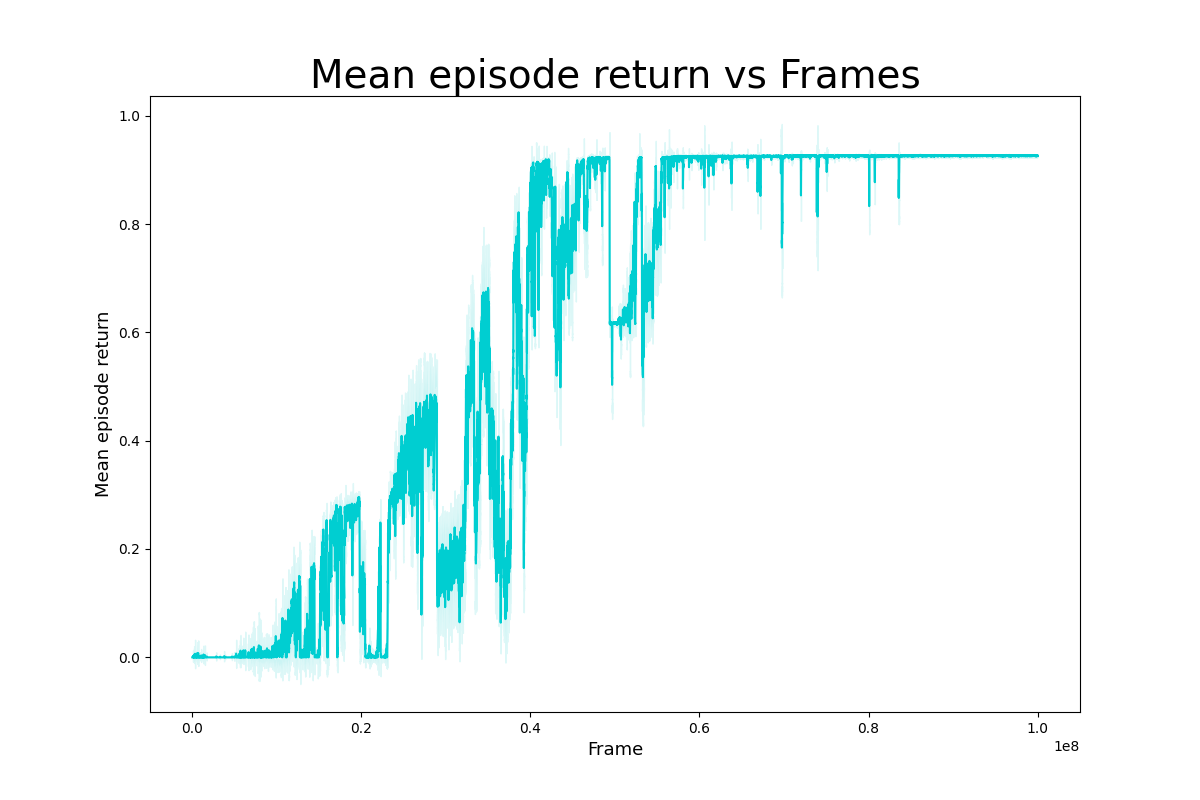
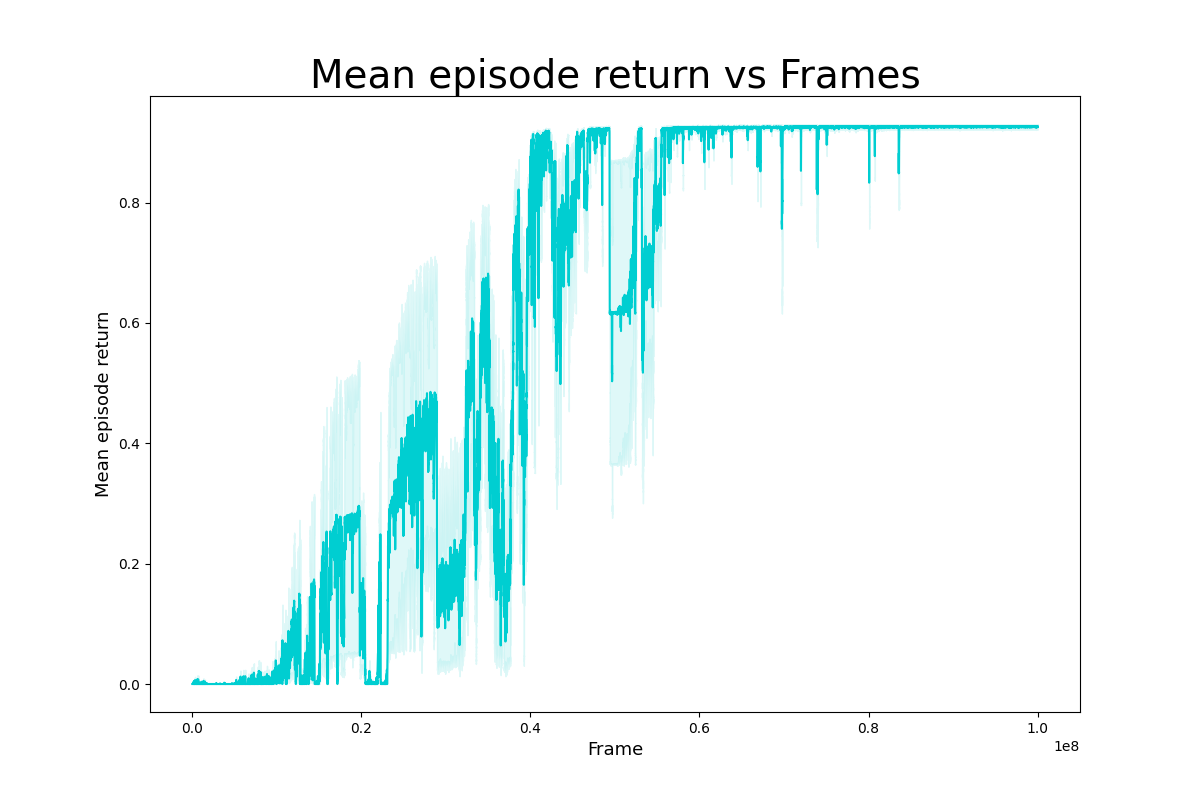
plot fixed and new results

diff --git a/plot_util.py b/plot_util.py
@@ -12,11 +12,14 @@ env_dict = {
     'OM': 'ObstructedMaze-1Dl'
 }
 # set environment to plot, for now KC/OM
-env = 'OM'
+env = 'KC'
 # set directory to save plots
 plots_dir = 'plot_results/'
 # window for rolling mean
 window = 5
+
+# Whether to plot the generator_reward, intrinsic reward and t* as well
+plot_extras = True
 
 # prepare directory for plots
 if not os.path.exists(plots_dir):
@@ -25,26 +28,35 @@ if not os.path.exists(plots_dir):
 
 frames = []
 mean_episode_return = []
+current_target = []
+generator_rewards = []
+mean_intrinsic_reward = []
+
 print('Collecting results...')
 for filename in os.listdir(results_dir):
     if filename.startswith(env):
         print(os.path.join(results_dir, filename))
         path = os.path.join(results_dir, filename)
         data = pd.read_csv(os.path.join(path, 'logs.csv'))
+        # Appends
         frames.append(data['frames'])
         mean_episode_return.append((data['mean_episode_return']))
+        current_target.append((data['generator_current_target']))
+        generator_rewards.append((data['gen_rewards']))
+        mean_intrinsic_reward.append((data['mean_intrinsic_rewards']))
+
 
 # computing mean
-mean_episode_return = np.mean(mean_episode_return, axis=0)
-# TODO: not sure how precise that would be if different logging step was used in files
-mean_frames = np.mean(frames, axis=0)
+avg_mean_episode_return = np.mean(mean_episode_return, axis=0)
+# compute std for confidence interval as std/sqrt(n) where n is the number of repetitions
+std_episode_return = np.std(mean_episode_return, axis = 0)/np.sqrt(len(mean_episode_return))
 
 print('Plotting the results...')
 plt.figure(figsize=(12, 8))
-rolling_mean = pd.Series(mean_episode_return).rolling(window).mean()
-std = pd.Series(mean_episode_return).rolling(window).std()
-plt.plot(mean_frames, rolling_mean, color='darkturquoise')
-plt.fill_between(mean_frames,rolling_mean-std, rolling_mean+std, color='paleturquoise', alpha=0.4)
+rolling_mean = pd.Series(avg_mean_episode_return).rolling(window).mean()
+rolling_ci = pd.Series(std_episode_return).rolling(window).mean()
+plt.plot(frames[0], rolling_mean, color='darkturquoise')
+plt.fill_between(frames[0],rolling_mean-rolling_ci, rolling_mean+rolling_ci, color='paleturquoise', alpha=0.4)
 
 plt.title('Mean episode return vs Frames', fontsize = 28)
 plt.xlabel('Frame', fontsize = 13)
@@ -64,3 +76,53 @@ print('Saved results to {}{}_window{}.png'.format(plots_dir, env_dict[env], wind
 # plt.ylabel('Mean episode return', fontsize = 13)
 # plt.title('Mean episode return vs Frames', fontsize = 28)
 # plt.show()
+
+
+# Plot as well the mean intrinsic reward, the generator reward and t*
+if plot_extras:
+    current_target = current_target[1].to_numpy()
+    generator_rewards = generator_rewards[1].to_numpy()
+    mean_intrinsic_reward = mean_episode_return[1].to_numpy()
+
+    # Remove nans
+    frames_not_nan = frames[0][~np.isnan(current_target)]
+    current_target_not_nan = current_target[~np.isnan(current_target)]
+    generator_rewards_not_nan = generator_rewards[~np.isnan(current_target)]
+    mean_intrinsic_reward_not_nan = mean_intrinsic_reward[~np.isnan(current_target)]
+
+    # Plot t* with respect to current number of frames
+    plt.figure(figsize=(12, 8))
+    plt.plot(frames_not_nan, current_target_not_nan, color='goldenrod')
+    plt.title('t* vs Frames', fontsize=28)
+    plt.xlabel('Frame', fontsize=18)
+    plt.ylabel('t*', fontsize=18)
+    plt.xticks(fontsize=15)
+    plt.yticks(fontsize=15)
+    plt.savefig('{}{}_window{}_t_star.png'.format(plots_dir, env_dict[env], window))
+    plt.clf()
+
+    #Plot generator rewards
+    rolling_mean_generator_rewards = pd.Series(generator_rewards_not_nan).rolling(window).mean()
+    plt.plot(frames_not_nan, rolling_mean_generator_rewards, color='orchid')
+    plt.title('Generator reward vs Frames', fontsize=28)
+    plt.xlabel('Frame', fontsize=18)
+    plt.ylabel('Generator reward', fontsize=18)
+    plt.xticks(fontsize=15)
+    plt.yticks(fontsize=15)
+    # name figure according to environment and save to plots_dir
+    plt.savefig('{}{}_window{}_generator_reward.png'.format(plots_dir, env_dict[env], window))
+    # plt.show()
+    plt.clf()
+
+    #Plot generator rewards
+    rolling_mean_intrinsic_reward = pd.Series(mean_intrinsic_reward_not_nan).rolling(window).mean()
+    plt.plot(frames_not_nan, rolling_mean_intrinsic_reward, color='seagreen')
+    plt.title('Mean intrinsic reward vs Frames', fontsize=28)
+    plt.xlabel('Frame', fontsize=18)
+    plt.ylabel('Mean intrinsic reward', fontsize=18)
+    plt.xticks(fontsize=15)
+    plt.yticks(fontsize=15)
+    # name figure according to environment and save to plots_dir
+    plt.savefig('{}{}_window{}_mean_intrinsic_reward.png'.format(plots_dir, env_dict[env], window))
+    # plt.show()
+    plt.clf()

diff --git a/monobeast_torch1.5/minigrid/monobeast_amigo.py b/monobeast_torch1.5/minigrid/monobeast_amigo.py
@@ -957,7 +957,9 @@ def train(flags):
         last_checkpoint_time = timer()
 
         if flags.save_env:
-            env_goal_dict = {'frame':[], 'env':[], 'goal':[]}
+            env_goal_dict = {'frame':torch.zeros(flags.total_frames//flags.save_every,1),
+                             'env':torch.zeros((flags.total_frames//flags.save_every,env.width, env.height, 3)),
+                             'goal':torch.zeros(flags.total_frames//flags.save_every,1)}
             cp = 0
         
         while frames < flags.total_frames:
@@ -971,9 +973,9 @@ def train(flags):
             # Save the environment and the goal
             if flags.save_env:
                 if frames // flags.save_every > cp:
-                    env_goal_dict['env'].append(buffers['frame'][-1][-1])
-                    env_goal_dict['goal'].append(buffers['goal'][-1][-1])
-                    env_goal_dict['frame'].append(frames)
+                    env_goal_dict['env'][cp] = buffers['frame'][-1][-1]
+                    env_goal_dict['goal'][cp] = buffers['goal'][-1][-1]
+                    env_goal_dict['frame'][cp] = frames
                     cp += 1
 
             fps = (frames - start_frames) / (timer() - start_time)
